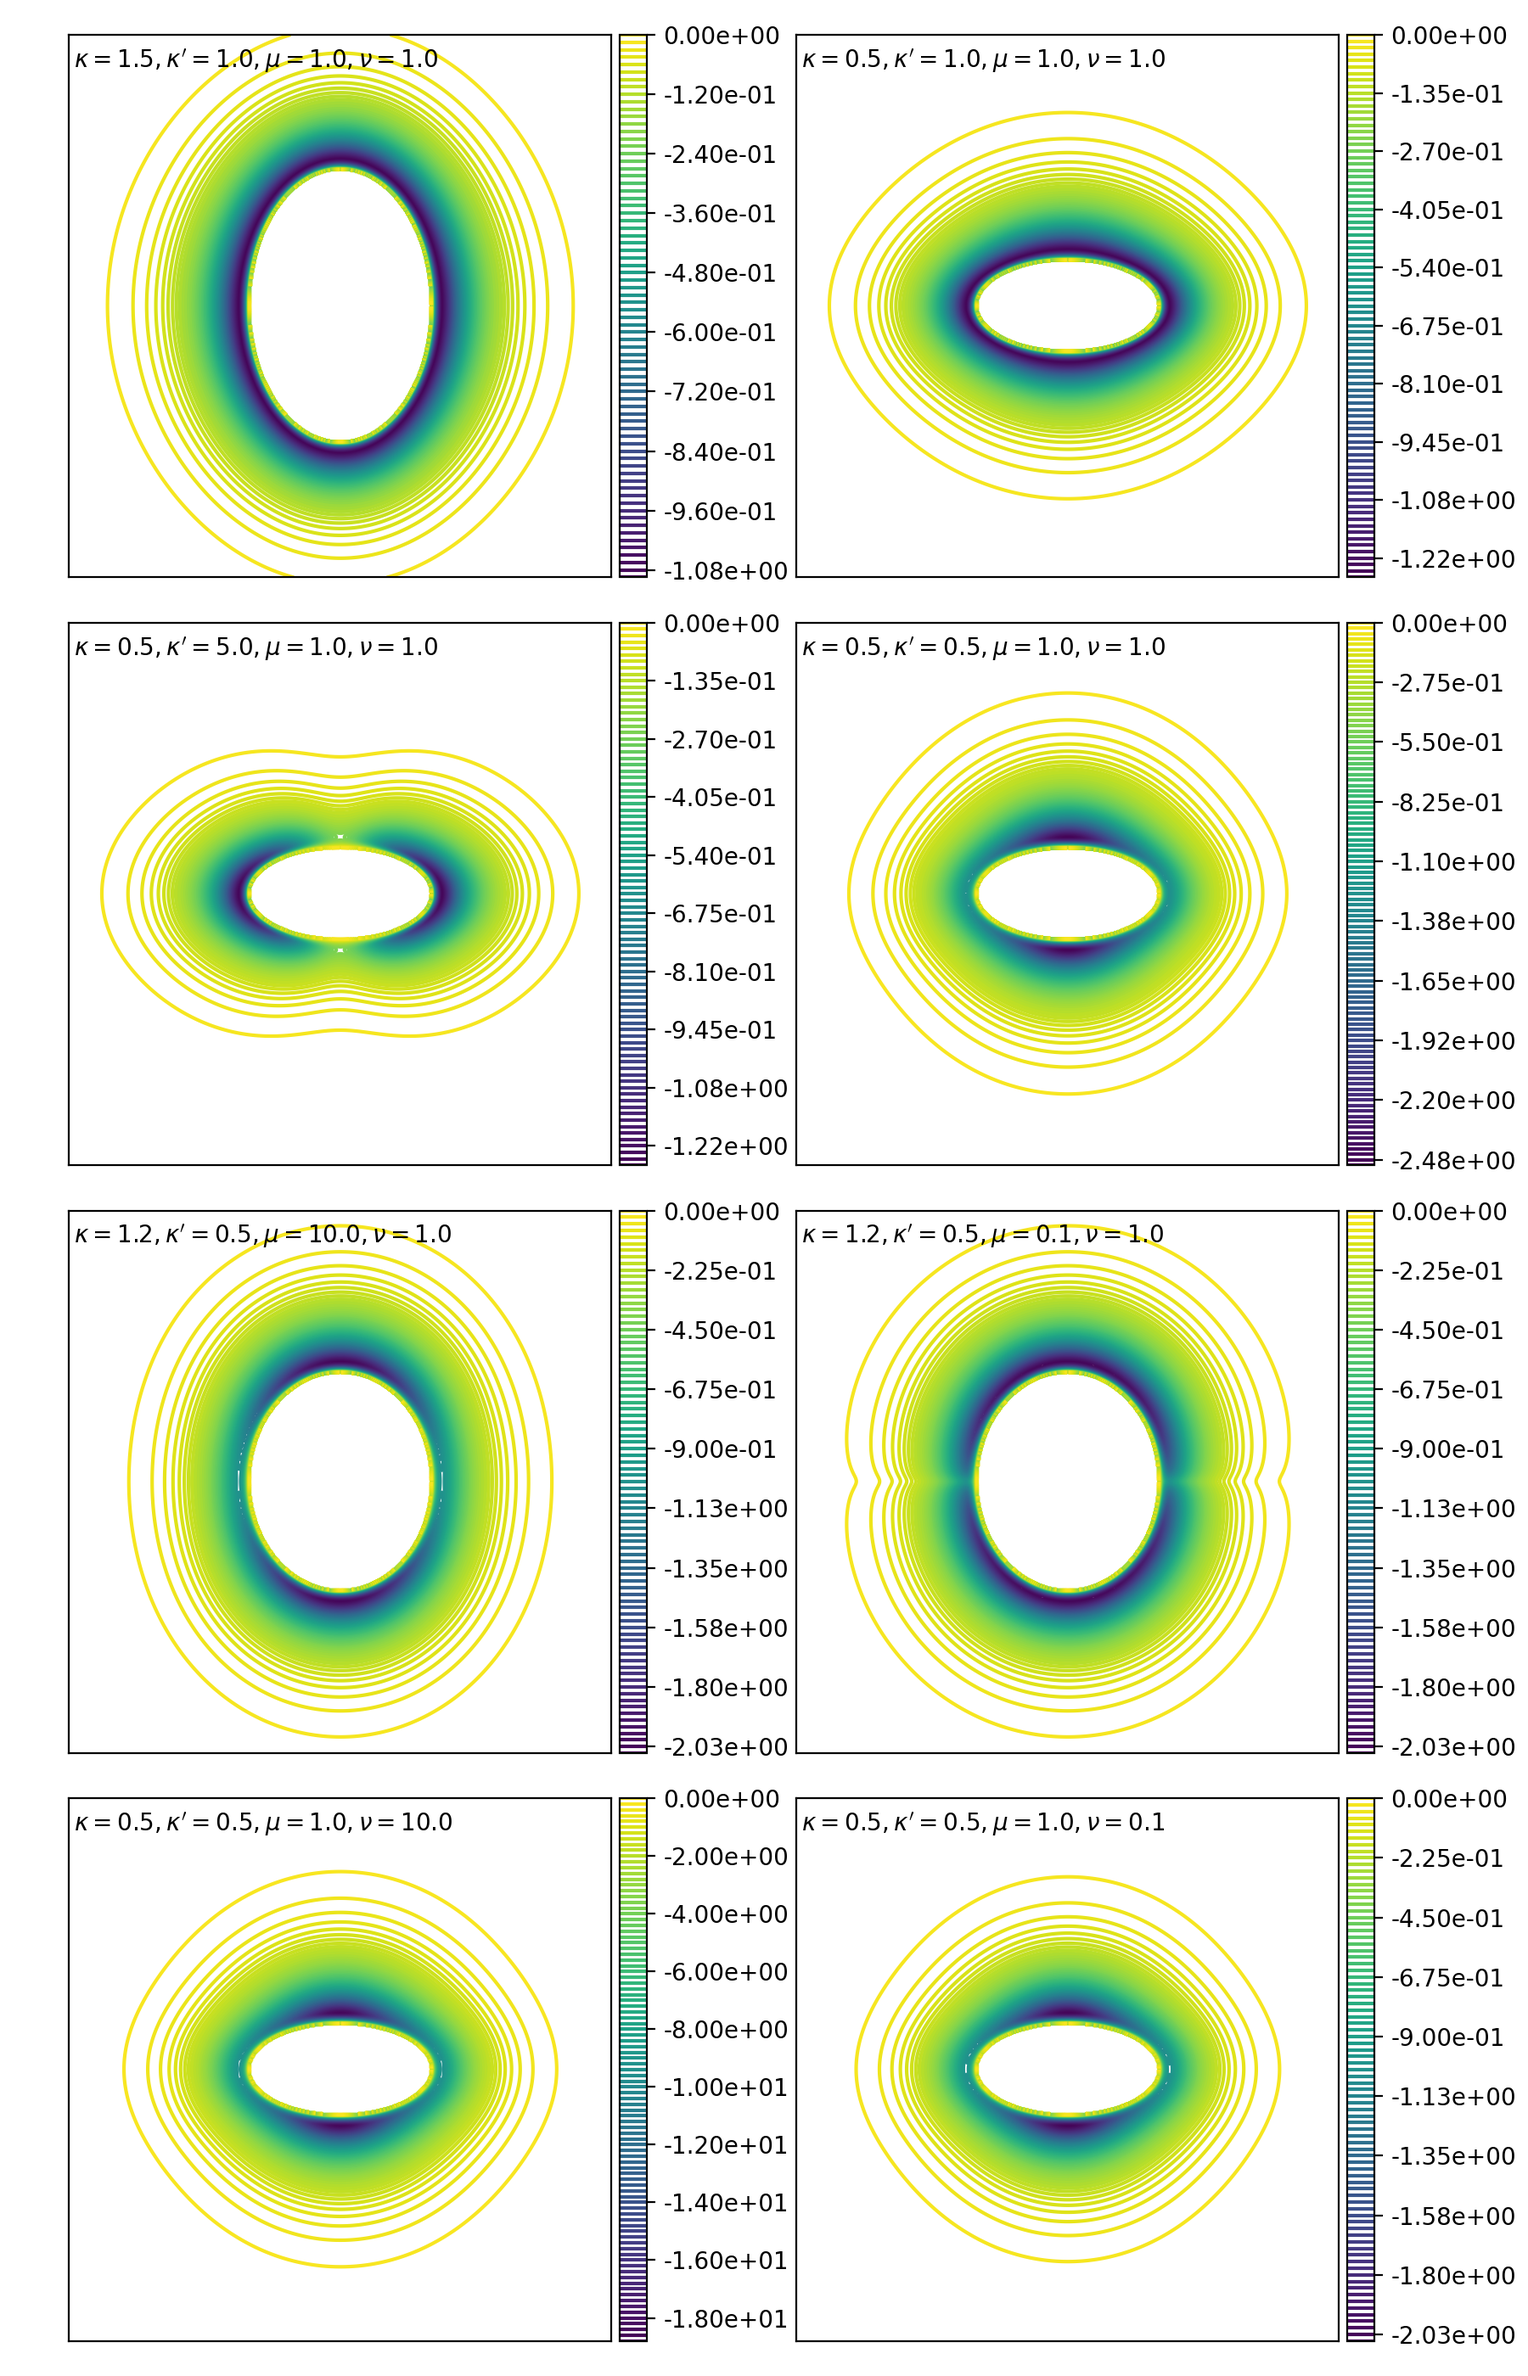
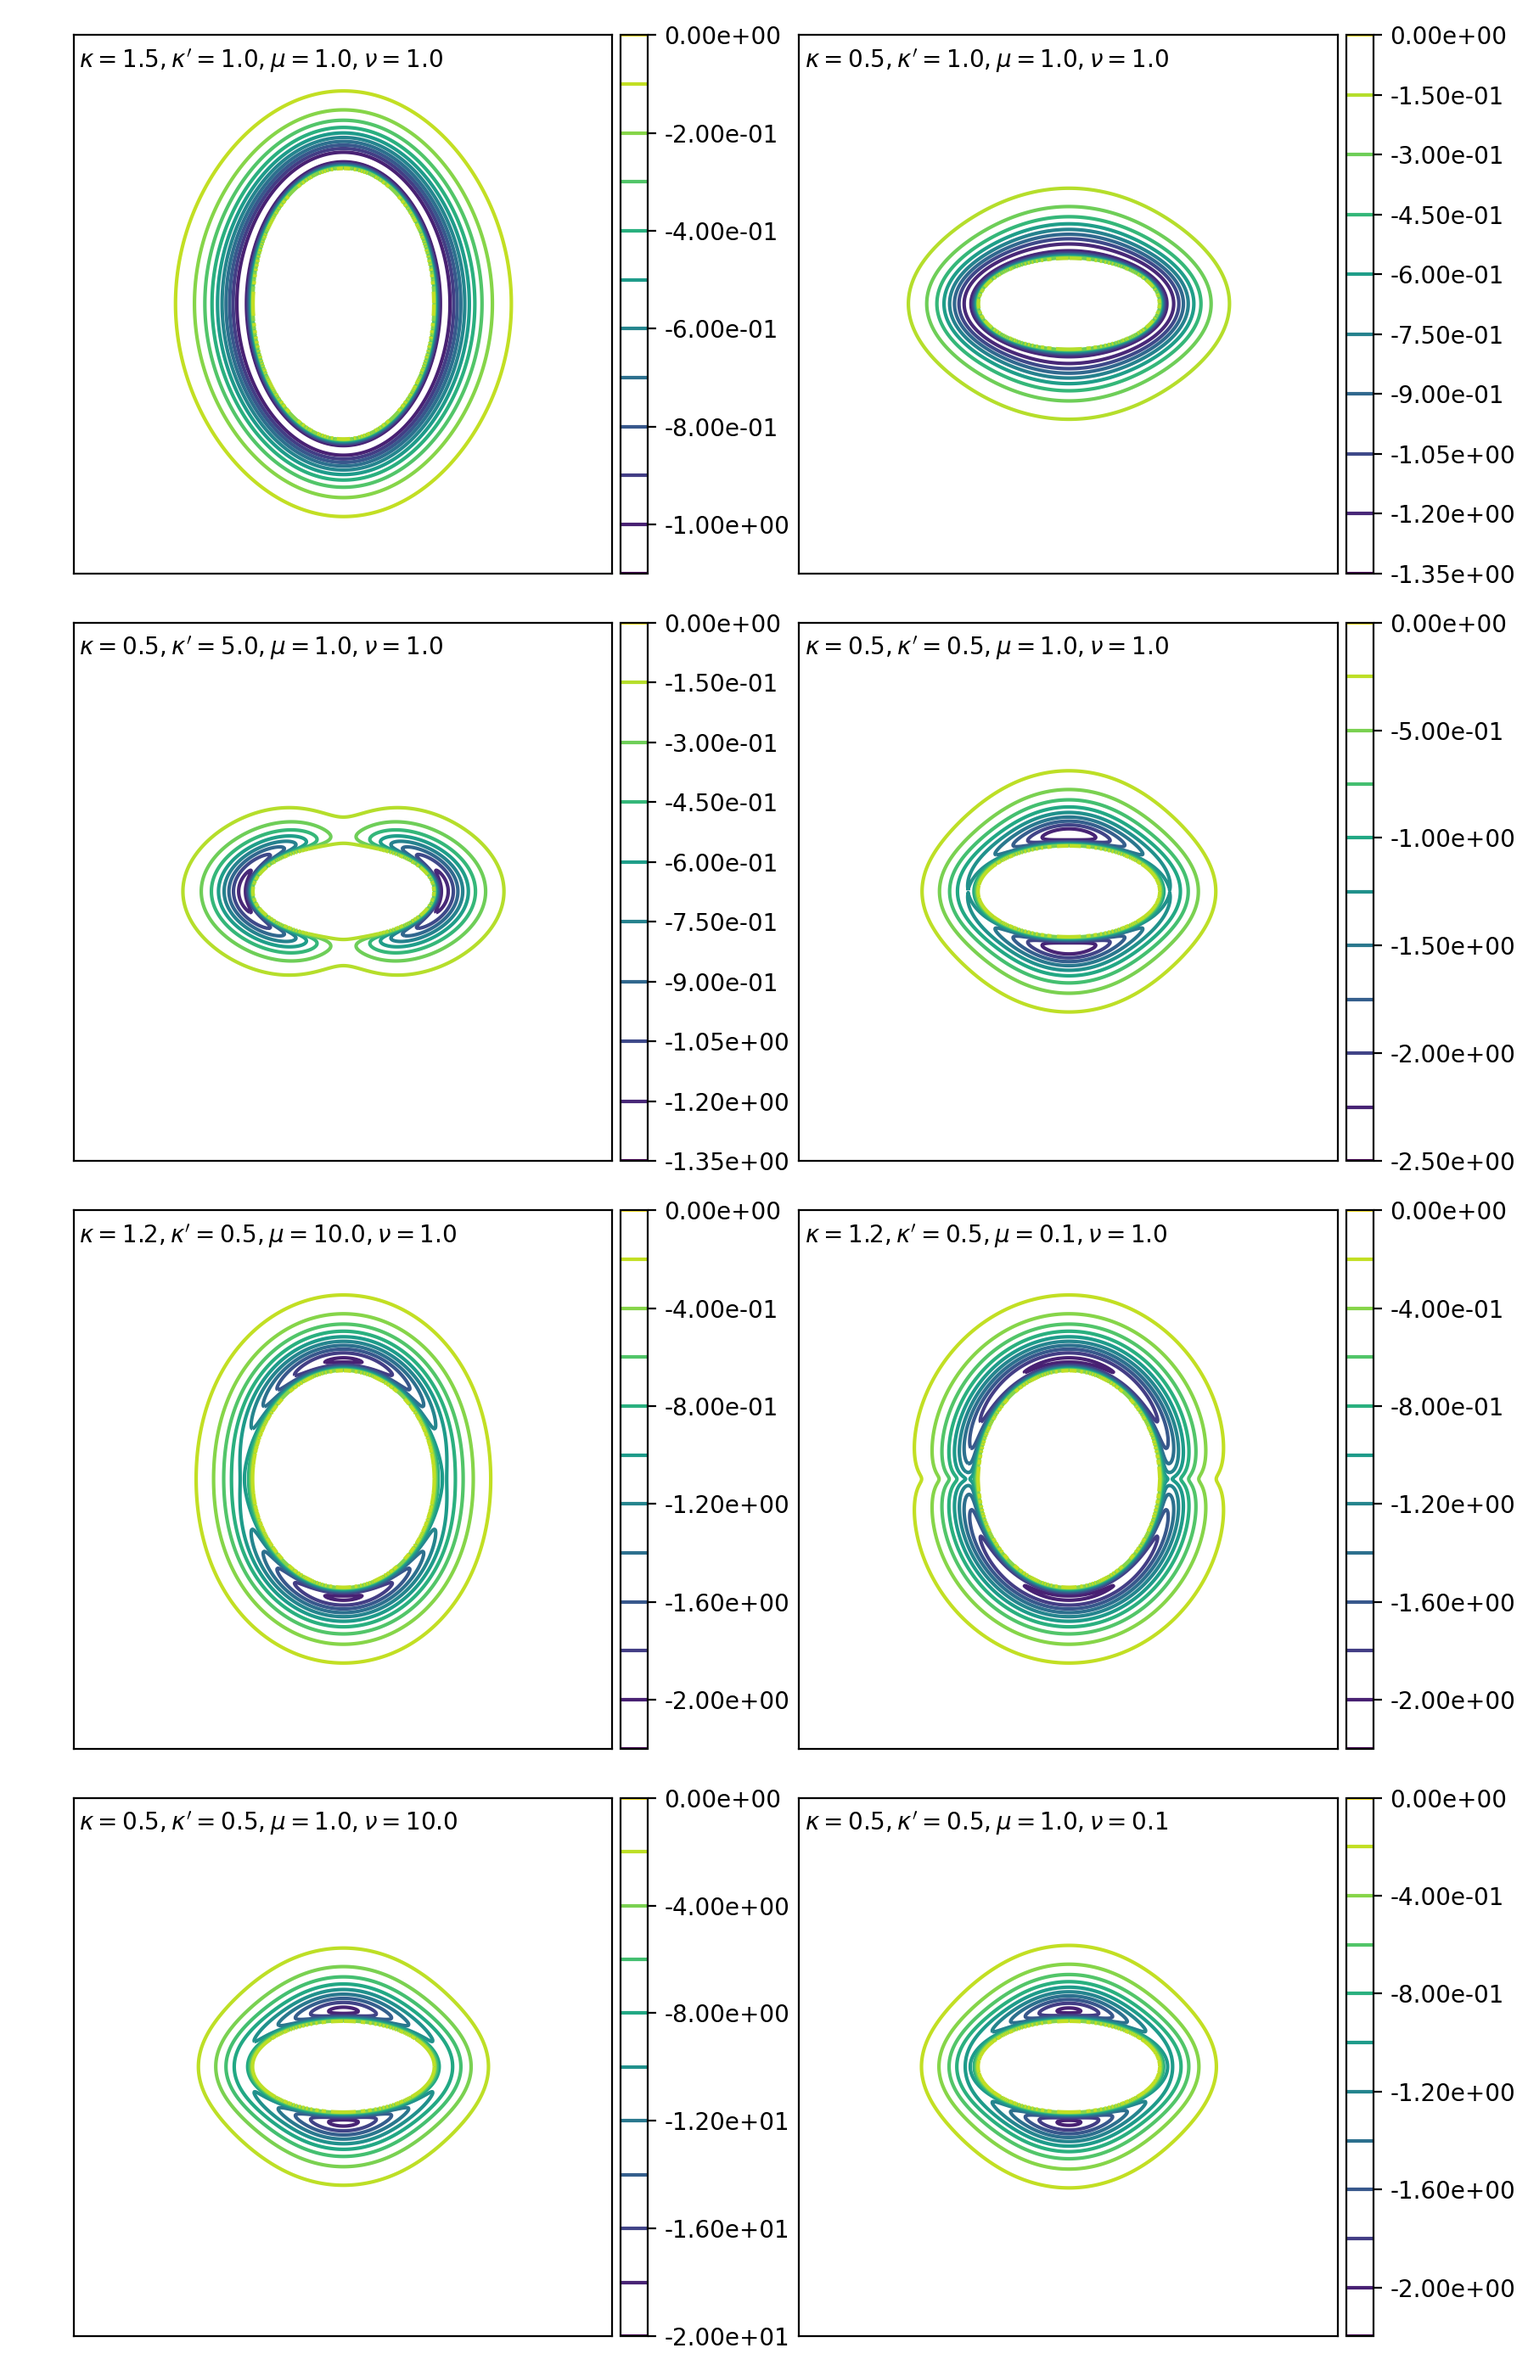
change number of lines

diff --git a/plot.py b/plot.py
@@ -26,7 +26,7 @@ for i,p in enumerate(params):
     U       = gbpot(P,u1,u2, *p)
     U[U>0]  = np.nan
 
-    im      = ax[i].contour(xx[:,:,0], yy[:,:,0], U.reshape(len(xx),len(xx)), levels=100)
+    im      = ax[i].contour(xx[:,:,0], yy[:,:,0], U.reshape(len(xx),len(xx)), levels=10)
     ax[i].text(0.01, 0.94, f"$\kappa={p[0]}, \kappa'={p[1]}, \mu={p[2]}, \\nu={p[3]}$", transform=ax[i].transAxes)
     ax[i].set_aspect('equal', 'box')
 
